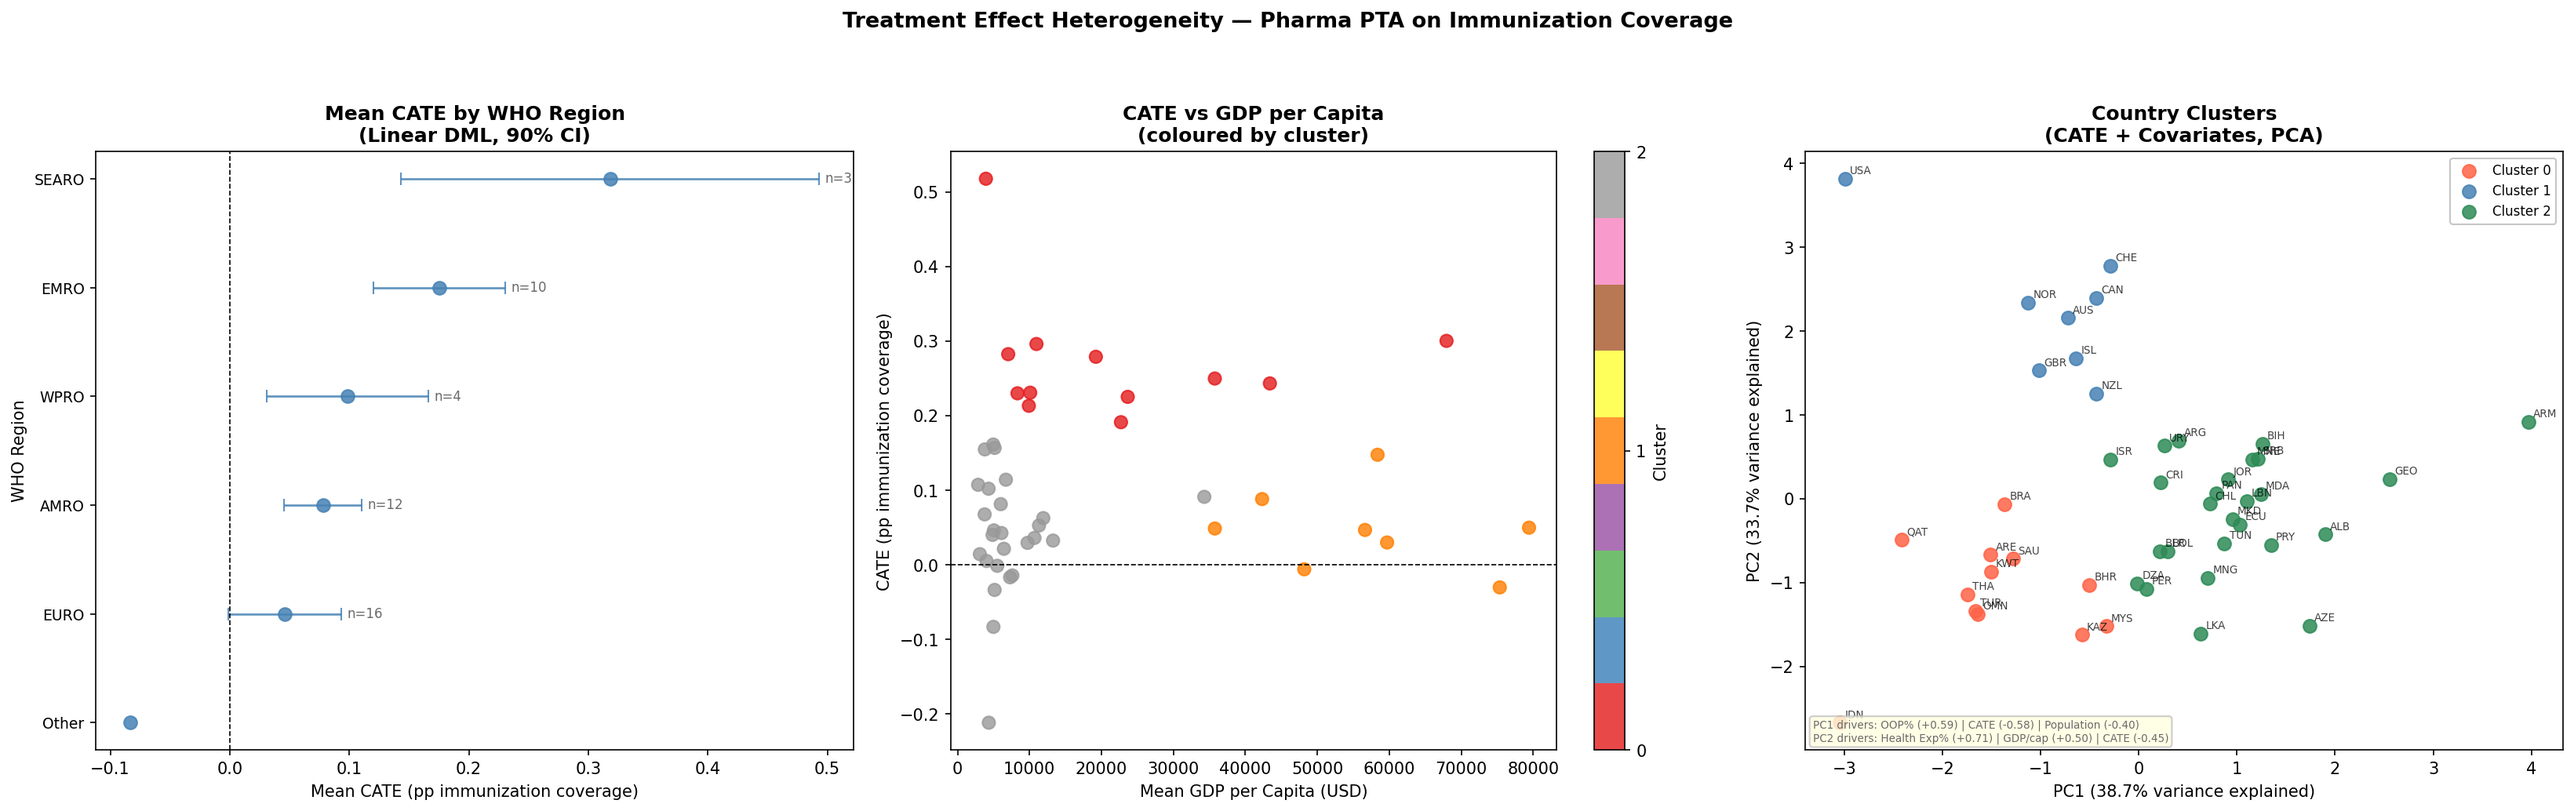
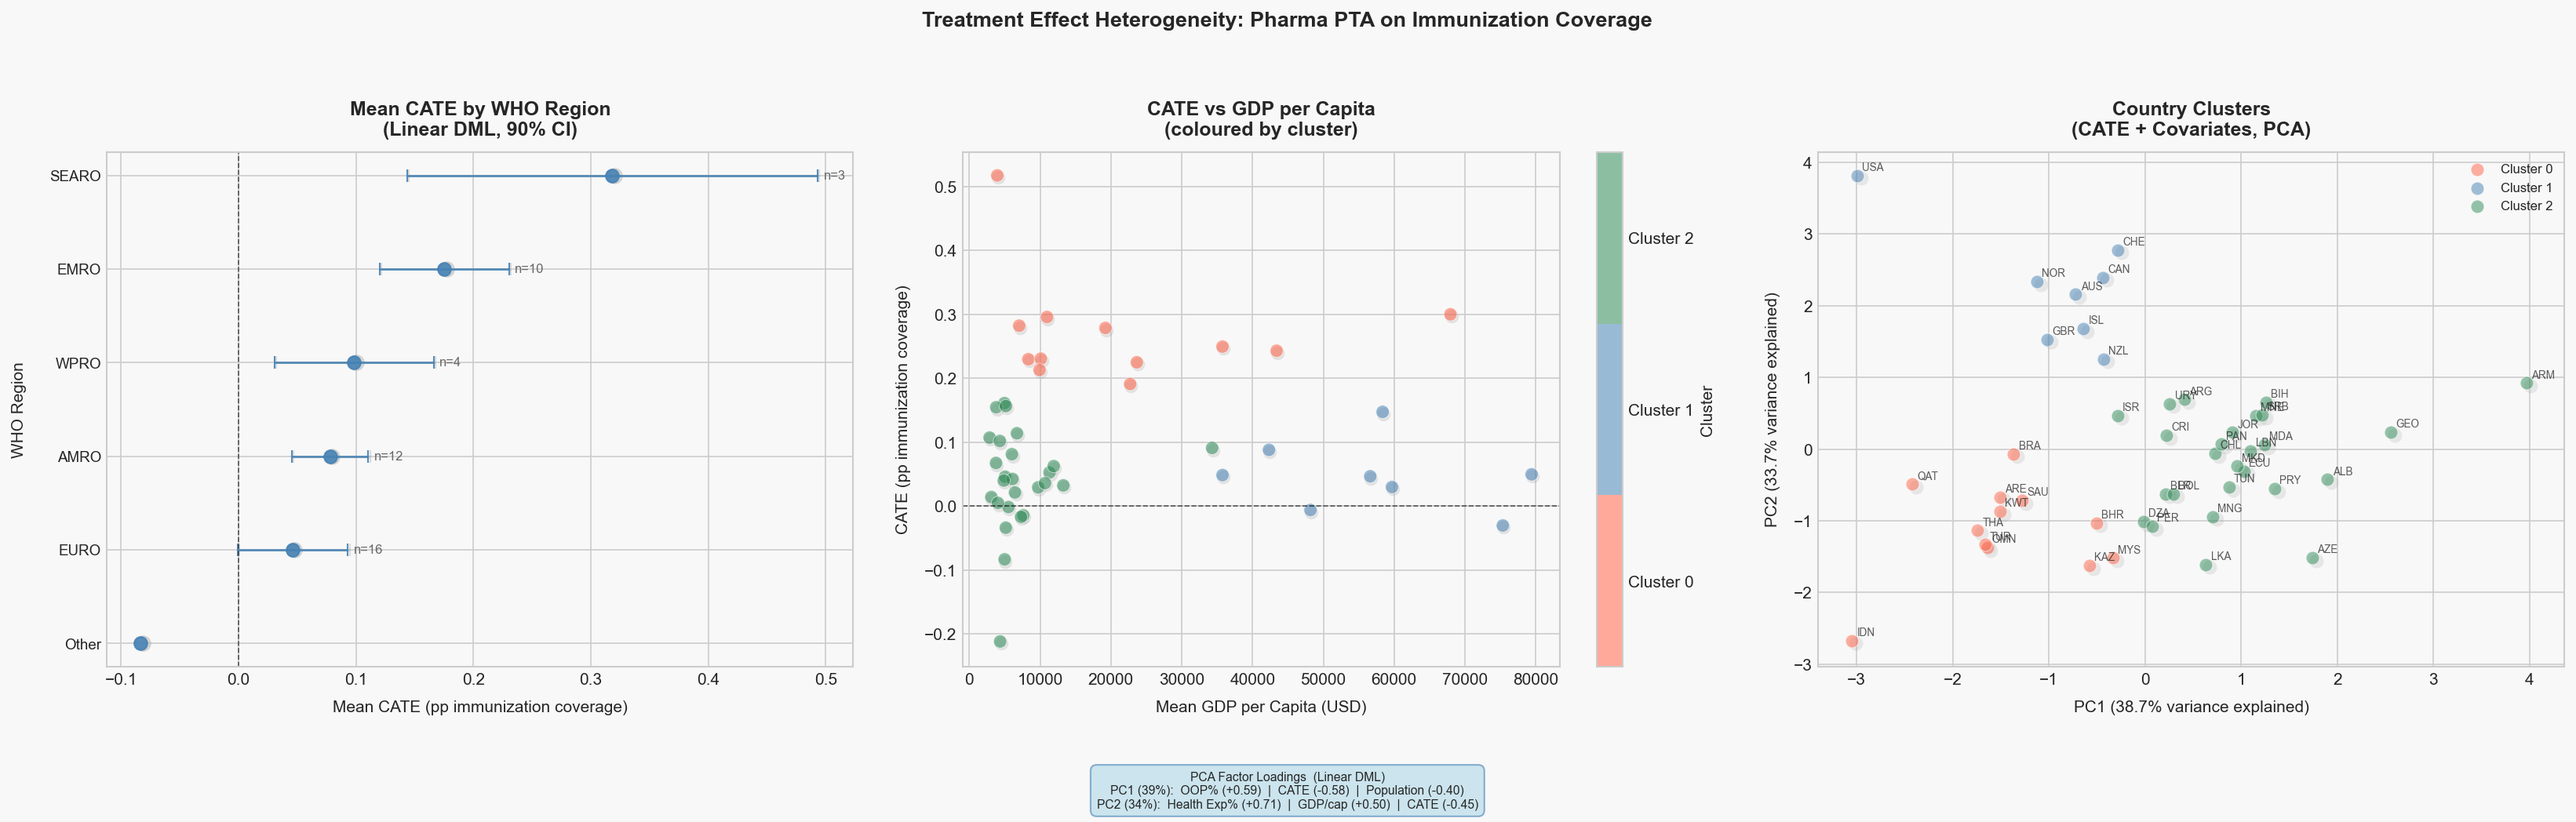
Add Causal Forest DML results, update heterogeneity plots and README interpretation

diff --git a/src/run_dml.py b/src/run_dml.py
@@ -204,13 +204,6 @@ for i, iso in enumerate(isos):
                      fontsize=6.5, alpha=0.75, xytext=(3, 3), textcoords="offset points")
 
 _feat_names = ["CATE", "GDP/cap", "Health Exp%", "OOP%", "Population"]
-_pc1 = sorted(zip(_feat_names, pca.components_[0]), key=lambda x: abs(x[1]), reverse=True)[:3]
-_pc2 = sorted(zip(_feat_names, pca.components_[1]), key=lambda x: abs(x[1]), reverse=True)[:3]
-_loading_txt = ("PC1 drivers: " + " | ".join(f"{n} ({v:+.2f})" for n, v in _pc1) +
-                "\nPC2 drivers: " + " | ".join(f"{n} ({v:+.2f})" for n, v in _pc2))
-axes[2].text(0.01, 0.01, _loading_txt, transform=axes[2].transAxes,
-             fontsize=6.5, va="bottom", color="dimgrey",
-             bbox=dict(boxstyle="round,pad=0.3", facecolor="lightyellow", alpha=0.85, edgecolor="silver"))
 axes[2].set_xlabel(f"PC1 ({pca.explained_variance_ratio_[0]:.1%} variance explained)", labelpad=8)
 axes[2].set_ylabel(f"PC2 ({pca.explained_variance_ratio_[1]:.1%} variance explained)", labelpad=8)
 axes[2].set_title("Country Clusters\n(CATE + Covariates, PCA)", fontweight="bold", pad=10)
@@ -218,7 +211,18 @@ axes[2].legend(fontsize=8, loc="upper right", framealpha=0.9, edgecolor="silver"
 
 fig.suptitle("Treatment Effect Heterogeneity: Pharma PTA on Immunization Coverage",
              fontsize=13, fontweight="bold")
-plt.tight_layout(rect=[0, 0, 1, 0.94])
+plt.tight_layout(rect=[0, 0.10, 1, 0.94])
+
+_lin_pc1 = sorted(zip(_feat_names, pca.components_[0]), key=lambda x: abs(x[1]), reverse=True)[:3]
+_lin_pc2 = sorted(zip(_feat_names, pca.components_[1]), key=lambda x: abs(x[1]), reverse=True)[:3]
+_lin_ann = (
+    f"PCA Factor Loadings  (Linear DML)\n"
+    f"PC1 ({pca.explained_variance_ratio_[0]:.0%}):  " + "  |  ".join(f"{n} ({v:+.2f})" for n, v in _lin_pc1) +
+    f"\nPC2 ({pca.explained_variance_ratio_[1]:.0%}):  " + "  |  ".join(f"{n} ({v:+.2f})" for n, v in _lin_pc2)
+)
+fig.text(0.5, 0.01, _lin_ann, ha="center", va="bottom", fontsize=7.5,
+         bbox=dict(boxstyle="round,pad=0.5", facecolor="lightblue", alpha=0.6, edgecolor="steelblue"))
+
 _out = os.path.join(OUT_DIR, "heterogeneity_clusters.png")
 plt.savefig(_out, dpi=150, bbox_inches="tight")
 plt.show()
@@ -231,4 +235,159 @@ print("\n-- Countries per cluster --")
 for k in range(K):
     cs = sorted(country_res[country_res["cluster"] == k]["country_iso3"].tolist())
     print(f"Cluster {k}: {cs}")
-print("\nDML pipeline complete.")
+print("\nLinear DML pipeline complete.")
+
+# ══════════════════════════════════════════════════════════════════════════════
+# Step 6: Causal Forest DML
+# ══════════════════════════════════════════════════════════════════════════════
+from econml.dml import CausalForestDML
+
+# ── 6a: Prepare data ──────────────────────────────────────────────────────────
+cf_panel = panel_s2.copy()
+cf_panel["pta_active"] = (
+    (cf_panel["gname"] > 0) & (cf_panel["year"] >= cf_panel["gname"])
+).astype(float)
+
+cf_ml = cf_panel.dropna(subset=["immunization_coverage"] + COVARS).copy()
+cf_country_avg = cf_ml.groupby("country_iso3")[COVARS].mean()
+cf_ml = cf_ml.join(
+    cf_country_avg.rename(columns={c: f"{c}_avg" for c in COVARS}),
+    on="country_iso3"
+)
+X_mod_cols = [f"{c}_avg" for c in COVARS]
+
+Y_cf = cf_ml["immunization_coverage"].values
+T_cf = cf_ml["pta_active"].values
+X_cf = cf_ml[X_mod_cols].values
+W_cf = pd.get_dummies(cf_ml["year"], drop_first=True).astype(float).values  # year FEs as nuisance
+
+# ── 6b: Fit Causal Forest DML ─────────────────────────────────────────────────
+cf_scaler   = StandardScaler()
+X_cf_scaled = cf_scaler.fit_transform(X_cf)
+
+cf_model = CausalForestDML(
+    n_estimators=1000,
+    min_samples_leaf=5,
+    max_depth=4,
+    discrete_treatment=True,
+    random_state=42,
+    cv=3,
+    n_jobs=-1,
+)
+cf_model.fit(Y_cf, T_cf, X=X_cf_scaled, W=W_cf)
+print("\nStep 6b -- Overall ATE (Causal Forest DML):", cf_model.ate(X_cf_scaled).round(4))
+
+# ── 6c: Country-level CATEs ───────────────────────────────────────────────────
+cf_country_Xmat     = cf_scaler.transform(cf_country_avg[COVARS].values)
+cf_cate             = cf_model.effect(cf_country_Xmat)
+cf_cate_lb, cf_cate_ub = cf_model.effect_interval(cf_country_Xmat, alpha=0.10)
+
+cf_country_res = cf_country_avg.reset_index().copy()
+cf_country_res["cate"]    = cf_cate
+cf_country_res["cate_lb"] = cf_cate_lb
+cf_country_res["cate_ub"] = cf_cate_ub
+
+print("\nStep 6c -- All countries by CATE (Causal Forest):")
+print(cf_country_res[["country_iso3", "cate", "cate_lb", "cate_ub"]]
+      .sort_values("cate", ascending=False).to_string())
+cf_country_res.to_csv(os.path.join(_ROOT, "data", "processed", "cf_cates.csv"), index=False)
+
+# ── 6d: K-means clustering ────────────────────────────────────────────────────
+cf_X_clust        = cf_country_res[["cate"] + COVARS].dropna()
+cf_X_clust_scaled = StandardScaler().fit_transform(cf_X_clust)
+
+cf_kmeans = KMeans(n_clusters=K, random_state=42, n_init=20)
+cf_country_res.loc[cf_X_clust.index, "cluster"] = cf_kmeans.fit_predict(cf_X_clust_scaled).astype(float)
+
+cf_pca   = PCA(n_components=2)
+cf_X_pca = cf_pca.fit_transform(cf_X_clust_scaled)
+
+# ── 6e: Plots ─────────────────────────────────────────────────────────────────
+fig, axes = plt.subplots(1, 3, figsize=(20, 6))
+fig.patch.set_facecolor("#f8f8f8")
+for ax in axes:
+    ax.set_facecolor("#f8f8f8")
+
+# Panel A: mean CATE by WHO region
+cf_country_res["who_region"] = cf_country_res["country_iso3"].map(_WHO).fillna("Other")
+_cf_reg = (
+    cf_country_res.groupby("who_region")["cate"]
+    .agg(["mean", "std", "count"]).reset_index()
+    .rename(columns={"mean": "mean_cate", "std": "std_cate", "count": "n"})
+)
+_cf_reg["ci90"] = 1.645 * _cf_reg["std_cate"] / np.sqrt(_cf_reg["n"])
+_cf_reg = _cf_reg.sort_values("mean_cate").reset_index(drop=True)
+
+axes[0].errorbar(_cf_reg["mean_cate"], _cf_reg["who_region"], xerr=_cf_reg["ci90"],
+                 fmt="o", capsize=4, markersize=8, color="steelblue",
+                 linewidth=1.3, elinewidth=1.3, alpha=0.9, zorder=2)
+axes[0].axvline(0, color="black", linestyle="--", lw=0.8, alpha=0.6)
+for _, row in _cf_reg.iterrows():
+    axes[0].text(row["mean_cate"] + row["ci90"] + 0.005, row["who_region"],
+                 f"n={int(row['n'])}", va="center", fontsize=8, color="dimgrey")
+axes[0].set_xlabel("Mean CATE (pp immunization coverage)", labelpad=8)
+axes[0].set_ylabel("WHO Region", labelpad=14)
+axes[0].set_title("Mean CATE by WHO Region\n(Causal Forest DML, 90% CI)", fontweight="bold", pad=10)
+axes[0].tick_params(axis="y", labelsize=9)
+
+# Panel B: CATE vs GDP coloured by cluster
+cf_plot = cf_country_res.dropna(subset=["cluster"])
+_cmap3  = ListedColormap(["tomato", "steelblue", "seagreen"])
+_norm3  = BoundaryNorm([0, 1, 2, 3], _cmap3.N)
+sc = axes[1].scatter(
+    cf_plot["gdp_per_capita_usd"], cf_plot["cate"],
+    c=cf_plot["cluster"], cmap=_cmap3, norm=_norm3,
+    s=65, alpha=0.75, edgecolors="white", linewidths=0.5,
+)
+axes[1].axhline(0, color="black", linestyle="--", lw=0.8)
+axes[1].set_xlabel("Mean GDP per Capita (USD)")
+axes[1].set_ylabel("CATE")
+axes[1].set_title("CATE vs GDP per Capita\n(coloured by cluster)", fontweight="bold")
+cb = fig.colorbar(sc, ax=axes[1], label="Cluster", ticks=[0.5, 1.5, 2.5])
+cb.ax.set_yticklabels(["Cluster 0", "Cluster 1", "Cluster 2"])
+
+# Panel C: PCA clusters
+for k in range(K):
+    mask = cf_kmeans.labels_ == k
+    axes[2].scatter(cf_X_pca[mask, 0], cf_X_pca[mask, 1],
+                    c=["tomato", "steelblue", "seagreen"][k],
+                    label=f"Cluster {k}", s=65, alpha=0.75,
+                    edgecolors="white", linewidths=0.6)
+cf_isos = cf_country_res.loc[cf_X_clust.index, "country_iso3"].values
+for i, iso in enumerate(cf_isos):
+    axes[2].annotate(iso, (cf_X_pca[i, 0], cf_X_pca[i, 1]),
+                     fontsize=6.5, alpha=0.75, xytext=(3, 3), textcoords="offset points")
+axes[2].set_xlabel(f"PC1 ({cf_pca.explained_variance_ratio_[0]:.1%} variance explained)")
+axes[2].set_ylabel(f"PC2 ({cf_pca.explained_variance_ratio_[1]:.1%} variance explained)")
+axes[2].set_title("Country Clusters\n(CATE + Covariates, PCA)", fontweight="bold")
+axes[2].legend(fontsize=8, loc="upper right", framealpha=0.9)
+
+fig.suptitle("Treatment Effect Heterogeneity: Causal Forest DML\nPharma PTA on Immunization Coverage",
+             fontsize=13, fontweight="bold")
+plt.tight_layout(rect=[0, 0.10, 1, 0.94])
+
+# ── Bottom-centre loading annotation (Causal Forest only) ────────────────────
+_feat_names_ann = ["CATE", "GDP/cap", "HealthExp%", "OOP%", "Population"]
+_cf_pc1 = sorted(zip(_feat_names_ann, cf_pca.components_[0]), key=lambda x: abs(x[1]), reverse=True)[:3]
+_cf_pc2 = sorted(zip(_feat_names_ann, cf_pca.components_[1]), key=lambda x: abs(x[1]), reverse=True)[:3]
+_cf_ann = (
+    f"PCA Factor Loadings  (Causal Forest DML)\n"
+    f"PC1 ({cf_pca.explained_variance_ratio_[0]:.0%}):  " + "  |  ".join(f"{n} ({v:+.2f})" for n, v in _cf_pc1) +
+    f"\nPC2 ({cf_pca.explained_variance_ratio_[1]:.0%}):  " + "  |  ".join(f"{n} ({v:+.2f})" for n, v in _cf_pc2)
+)
+fig.text(0.5, 0.01, _cf_ann, ha="center", va="bottom", fontsize=7.5,
+         bbox=dict(boxstyle="round,pad=0.5", facecolor="lightblue", alpha=0.6, edgecolor="steelblue"))
+
+_cf_out = os.path.join(OUT_DIR, "heterogeneity_causal_forest.png")
+plt.savefig(_cf_out, dpi=150, bbox_inches="tight")
+plt.show()
+print(f"\nCausal Forest heterogeneity plot saved -> {_cf_out}")
+
+# ── 6f: Cluster summaries ─────────────────────────────────────────────────────
+print("\n-- Causal Forest Cluster mean characteristics --")
+print(cf_country_res.groupby("cluster")[["cate"] + COVARS].mean().round(3).to_string())
+print("\n-- Countries per cluster --")
+for k in range(K):
+    cs = sorted(cf_country_res[cf_country_res["cluster"] == k]["country_iso3"].tolist())
+    print(f"Cluster {k}: {cs}")
+print("\nCausal Forest DML pipeline complete.")

diff --git a/README.md b/README.md
@@ -144,21 +144,41 @@ Country-level window cleaning drops individual countries lacking ≥3 pre-treatm
 
 ## Key Findings
 
-### Treatment Effect Heterogeneity (DML)
+### Treatment Effect Heterogeneity — Linear DML
 
-![Heterogeneity](outputs/visualization/heterogeneity_viz.png)
+![Linear DML Heterogeneity](outputs/visualization/heterogeneity_clusters.png)
 
 **Plot 1: Mean CATE by WHO Region**
 
-SEARO has the highest mean effect (~0.33 pp log-coverage), though CIs are wide given only 3 countries. EMRO follows at ~0.19, driven by Gulf states (Saudi Arabia, Kuwait, Qatar, Bahrain). WPRO is ~0.15, anchored by Malaysia and Thailand. AMRO and EURO are near zero — consistent with ceiling effects in already well-covered populations.
+SEARO has the highest mean effect (~0.33 pp log-coverage), though CIs are wide given only 3 countries. EMRO follows at ~0.19, driven by Gulf states (Saudi Arabia, Kuwait, Qatar, Bahrain). WPRO is ~0.15, anchored by Malaysia and Thailand. AMRO and EURO are near zero, consistent with ceiling effects in already well-covered populations.
 
 **Plot 2: CATE vs GDP per Capita**
 
-High-CATE countries cluster in the $10k–$40k GDP range (Cluster 0). Countries above $50k GDP (Cluster 1) show near-zero or negative CATEs, consistent with saturation effects. Cluster 2 at low GDP also shows near-zero CATEs, suggesting structural barriers absorb any PTA benefit at that income level.
+High-CATE countries cluster in the $10k to $40k GDP range (Cluster 0, Gulf and ASEAN). Countries above $50k GDP (Cluster 1) show near-zero CATEs, consistent with saturation effects. Cluster 2 at lower GDP also shows near-zero CATEs, suggesting structural barriers absorb any PTA benefit at that income level.
 
 **Plot 3: PCA Country Clusters**
 
-PC1 (38.7% of variance) is an OOP vs CATE axis — higher OOP maps to lower CATE (Cluster 2, lower-middle income). PC2 (33.7%) separates by health system quality: Cluster 1 (USA, Switzerland, Canada, Norway) sits top-left with high GDP and high health expenditure; Cluster 0 (Gulf and ASEAN middle-income) sits bottom-left with moderate spending but higher CATE. ARM is a notable structural outlier.
+PC1 (38.7% of variance) is an OOP vs CATE axis: higher OOP maps to lower CATE (Cluster 2, lower-middle income). PC2 (33.7%) separates by health system quality: Cluster 1 (USA, Switzerland, Canada, Norway) sits top-left with high GDP and high health expenditure; Cluster 0 (Gulf and ASEAN middle-income) sits bottom-left with moderate spending but higher CATE.
+
+---
+
+### Treatment Effect Heterogeneity — Causal Forest DML
+
+![Causal Forest Heterogeneity](outputs/visualization/heterogeneity_causal_forest.png)
+
+The Causal Forest tells a more conservative and structurally different story than LinearDML. The overall ATE collapses to near zero (-0.009), and the regional and cluster patterns largely reverse.
+
+**Plot 1: Mean CATE by WHO Region**
+
+SEARO is the most negative region (~-0.14), driven almost entirely by Indonesia (-0.29), which dominates the regional mean given its size. EMRO follows at ~-0.03, with Gulf states (Oman, Qatar) pulling the average down despite Jordan and Lebanon showing small positive effects. WPRO is near zero. AMRO and EURO show small positive average CATEs. One plausible interpretation is that trade liberalization in Gulf and ASEAN markets redirects pharmaceutical investment toward more commercially attractive segments rather than routine immunization programs, particularly where public health financing is limited and private pharma interests may prioritise branded drugs or R&D activity over public immunization supply chains.
+
+**Plot 2: CATE vs GDP per Capita**
+
+Cluster 0 (upper-middle income, GDP ~$16.6k, Gulf and ASEAN countries) shows a neutral to negative treatment effect (~-0.08), the most striking reversal from LinearDML which had flagged this group as the highest responders. Cluster 1 (high income, GDP ~$57k, Anglosphere and EFTA) shows near-zero CATE (~+0.02), consistent with already-saturated immunization programs where PTAs add little. Cluster 2 (lower-middle income, GDP ~$8.3k, Eastern Europe, LatAm, MENA) shows the only consistently positive CATEs (~+0.03), suggesting health PTAs may provide genuine market access benefits where immunization programs still have room to grow.
+
+**Plot 3: PCA Country Clusters**
+
+PC1 (36.4% of variance) separates by GDP vs OOP: high-GDP, low-OOP countries sit on one side (Clusters 0 and 1) while lower-GDP, high-OOP countries sit on the other (Cluster 2). PC2 (30.8% of variance) then separates Cluster 0 from Cluster 1 by health system funding: Cluster 1 has the highest government health expenditure (~10.6%) and lowest OOP (~16%), representing well-funded public systems where PTAs change little. Cluster 0 has the lowest health expenditure share (~4.2%) and intermediate OOP (~25.8%), and shows negative CATEs. Cluster 2 carries the highest OOP burden (~39.9%) alongside moderate health expenditure (~7.6%), and is the only group where treatment effects are consistently positive, suggesting PTAs may matter most where private cost burden is high but some institutional capacity exists.
 
 ### Event Study Results (DiD Check)
 
